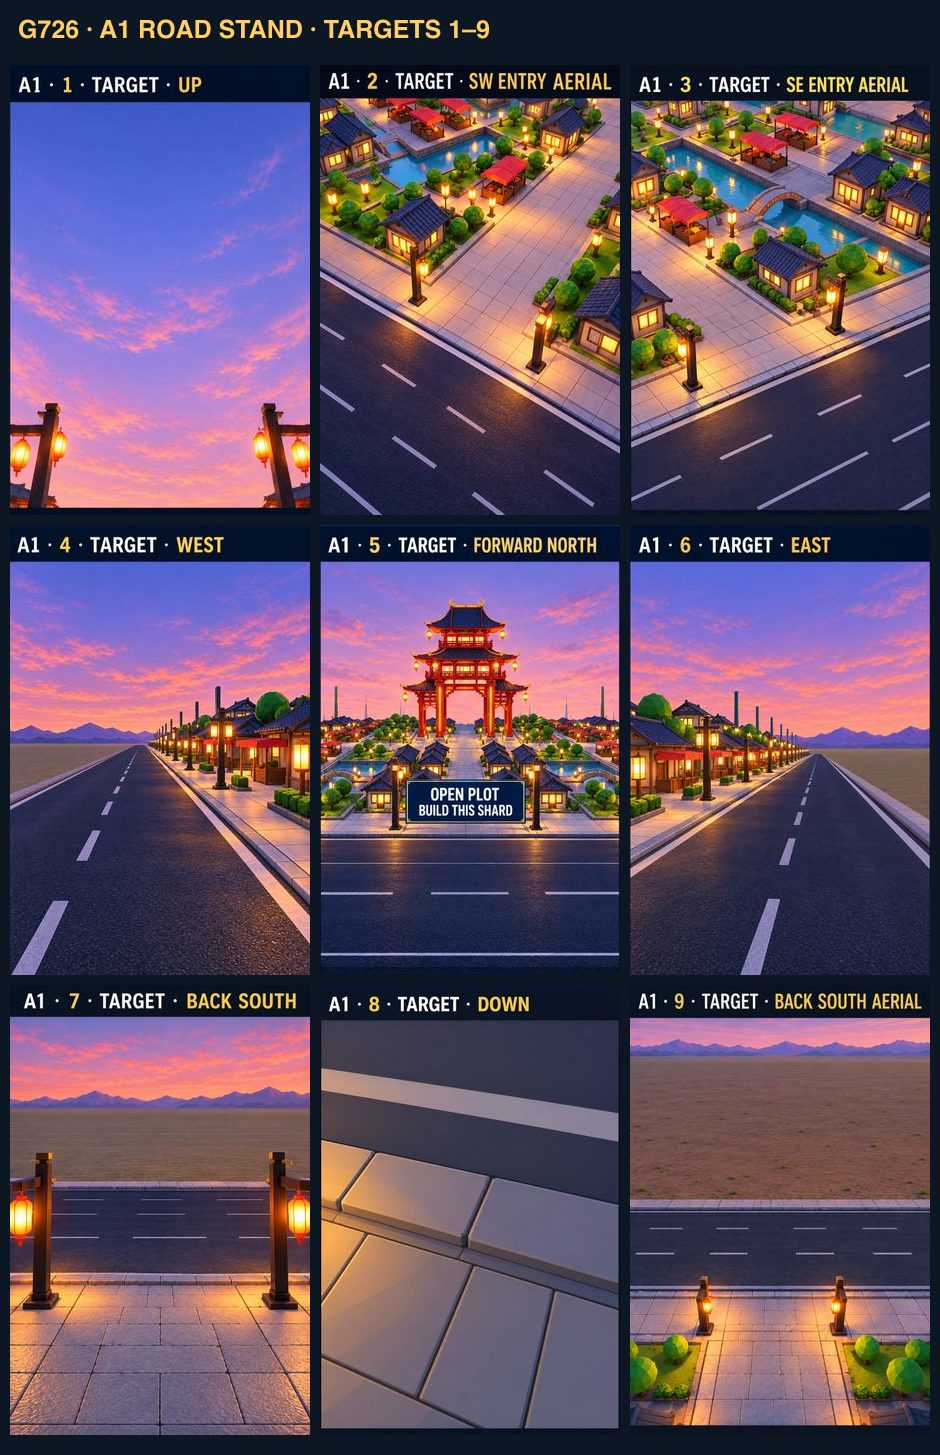
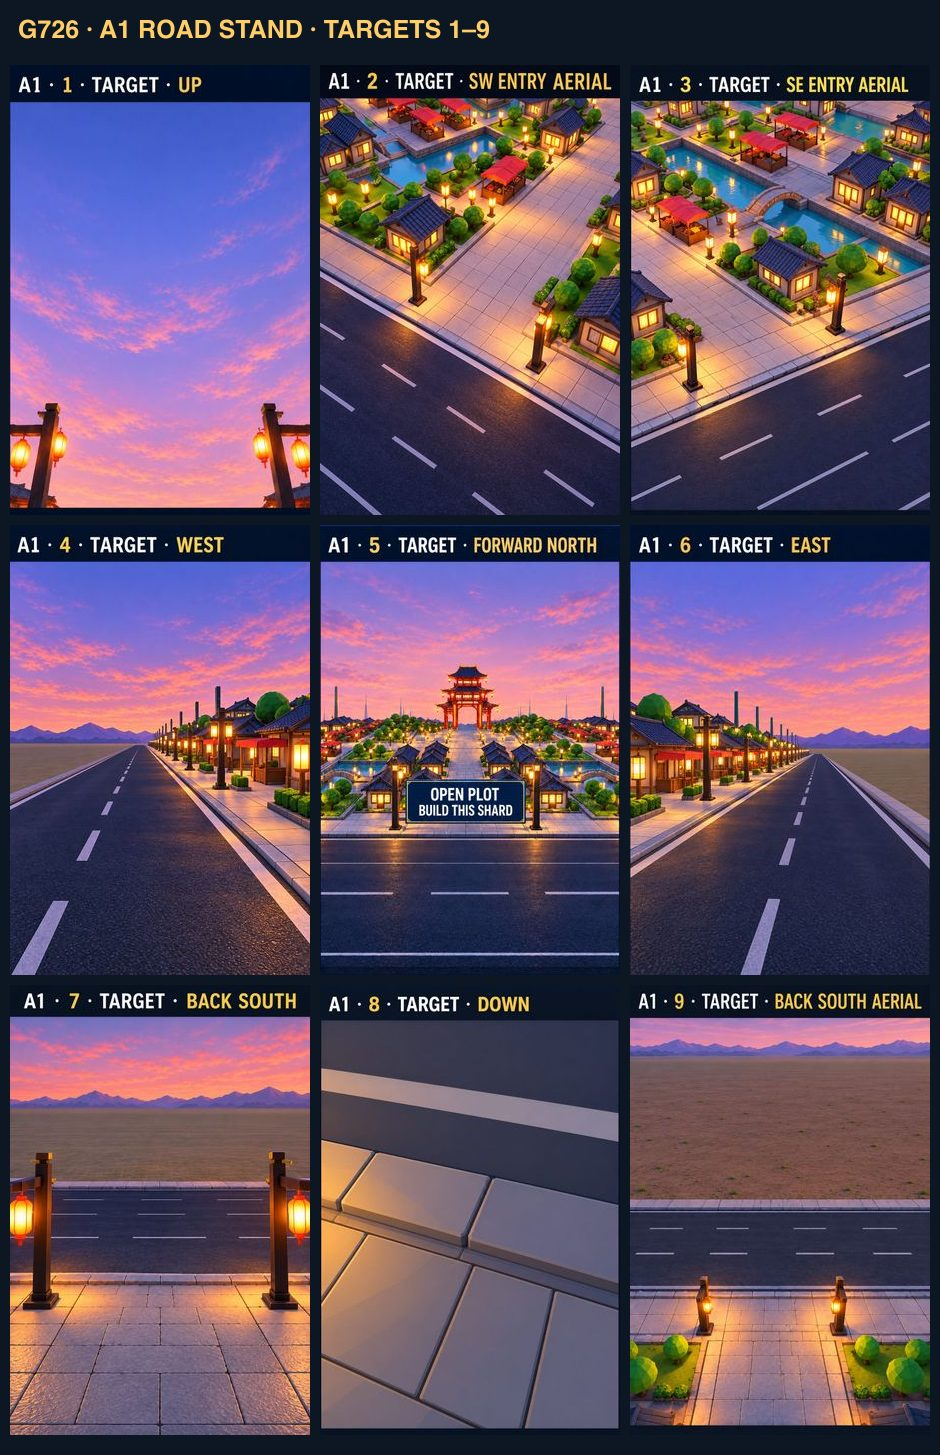
chore(art): complete the road look dome
G726 RM1.3: add A2's two saved candidates, nine individually
detailed targets, labelled sheet and reproducible prompt notes.
Inspect every view: side views omit the gate, rear views face the
plain neighbour, and the forecourt has one road beyond its entry.

Correct the paired three-tier gate identity and distance ordering
in both forward targets. Document image-tool refusals and the
successful saved passes. Camera vectors remain authoritative for
RM2. No runtime look, layout, shader or budget change.
Next bounded slice is the 40 m pair.

Assisted-by: Codex:gpt-6.1-sol

Changed region(s): [[0.3702, 0.4021, 0.5553, 0.5258], [0.3394, 0.5258, 0.3702, 0.5567]]

diff --git a/art/grid/round-63-night-market-domes/A2-road-look/README.md b/art/grid/round-63-night-market-domes/A2-road-look/README.md
@@ -1,0 +1,38 @@
+# A2 road look · G726 RM1
+
+The eye is inside the southern forecourt at plot-local
+`(0,1.7,-205)`. [cameras.json](cameras.json) is authoritative for
+RM2 placement; [floorplan.jpg](floorplan.jpg) supplies the actual
+64-tile layout and numbered view wedges. Pair:
+[A1 road stand](../A1-road-stand/sheet-target-3x3.jpg).
+
+Built-in `image_gen` produced the two saved 3×3 candidates from
+the approved road-entry mockup and this floor plan. The kept
+`grid-raw.jpg` is the simpler faceted candidate; the softer first
+successful version is `grid-raw-alt.jpg`. One earlier grid request
+and one individual detail request were refused by the image tool;
+the later saved images are successful calls, not substituted
+engine captures. No CLI/API fallback was used.
+
+## Prompt set
+
+**Grids:** one portrait 3×3 of nine 2:3 views, all of the same
+500 m square lantern town. Supply each camera's eye/look from the
+manifest. Preserve the approved red/gold dusk, navy roofs,
+turquoise moat canals, bridges, gardens and one central gate.
+Order: up/lantern sky, SW forecourt aerial, SE forecourt aerial,
+west gardens, north avenue, east gardens, south to the road, down
+at paving, aerial back south. The gate cannot appear in rear/side
+views; keep the southern neighbour plain. Caption every panel
+`A2 · n · TARGET · view`.
+
+**Individual targets:** detail the chosen single tile at
+1024×1536 without moving camera, horizon or objects. Use smooth
+matte low-poly geometry, round faceted crowns, simple paving
+joints and soft warm lantern light rather than photographic grit.
+Move the caption to one top navy band. The southern view has
+continuous forecourt paving before the single road beyond the
+entry. One targeted continuity correction preserves the same
+three-tier gate identity as A1 and its greater apparent size from
+this closer camera. The paired A1 gate was reduced to keep the
+distance ordering consistent.

diff --git a/docs/plans/shard-platform/night-market-remaster-mini-plan.md b/docs/plans/shard-platform/night-market-remaster-mini-plan.md
@@ -142,8 +142,8 @@ About 10 Opus lane-days, roughly 5 calendar days on two lanes.
 |---|---|---|
 | RM1.1 camera grounding | done | Eight exact plot-local camera manifests / 72 views and labelled floor plans in `art/grid/round-63-night-market-domes/`; actual 64-tile layout, z north, four G726 pairs only |
 | RM1.2 road stand targets | done | A1: two imagegen candidates, chosen B, nine individually detailed targets and labelled sheet; rejected rear-gate and photographic-ground variants documented |
-| RM1.3 road look targets | in flight (2026-10-24, sp-x6) | A2 two candidates, chosen grid and nine targets |
-| RM1.4 40 m pair targets | open | B1/B2 grids and targets |
+| RM1.3 road look targets | done | A2: two saved candidates, nine individual targets and labelled sheet; paired gate identity/scale corrected |
+| RM1.4 40 m pair targets | in flight (2026-10-24, sp-x6) | B1/B2 grids and targets |
 | RM1.5 100 m pair targets | open | C1/C2 grids and targets |
 | RM1.6 plaza pair targets | open | D1/D2 grids and targets; overview |
 | RM2.1 road / plaza baseline | open | Same source/cameras; draw, triangle and memory readings |

diff --git a/art/grid/round-63-night-market-domes/A1-road-stand/README.md b/art/grid/round-63-night-market-domes/A1-road-stand/README.md
@@ -40,3 +40,5 @@ succeeded. No CLI/API fallback was used.
 
 The first close-ground detail pass was too photographic; its replacement
 keeps broad matte polygon colours and clean joints rather than grit.
+The paired A2 review reduced A1's gate silhouette while preserving its
+three roof tiers, so the farther road camera has the smaller gate.
